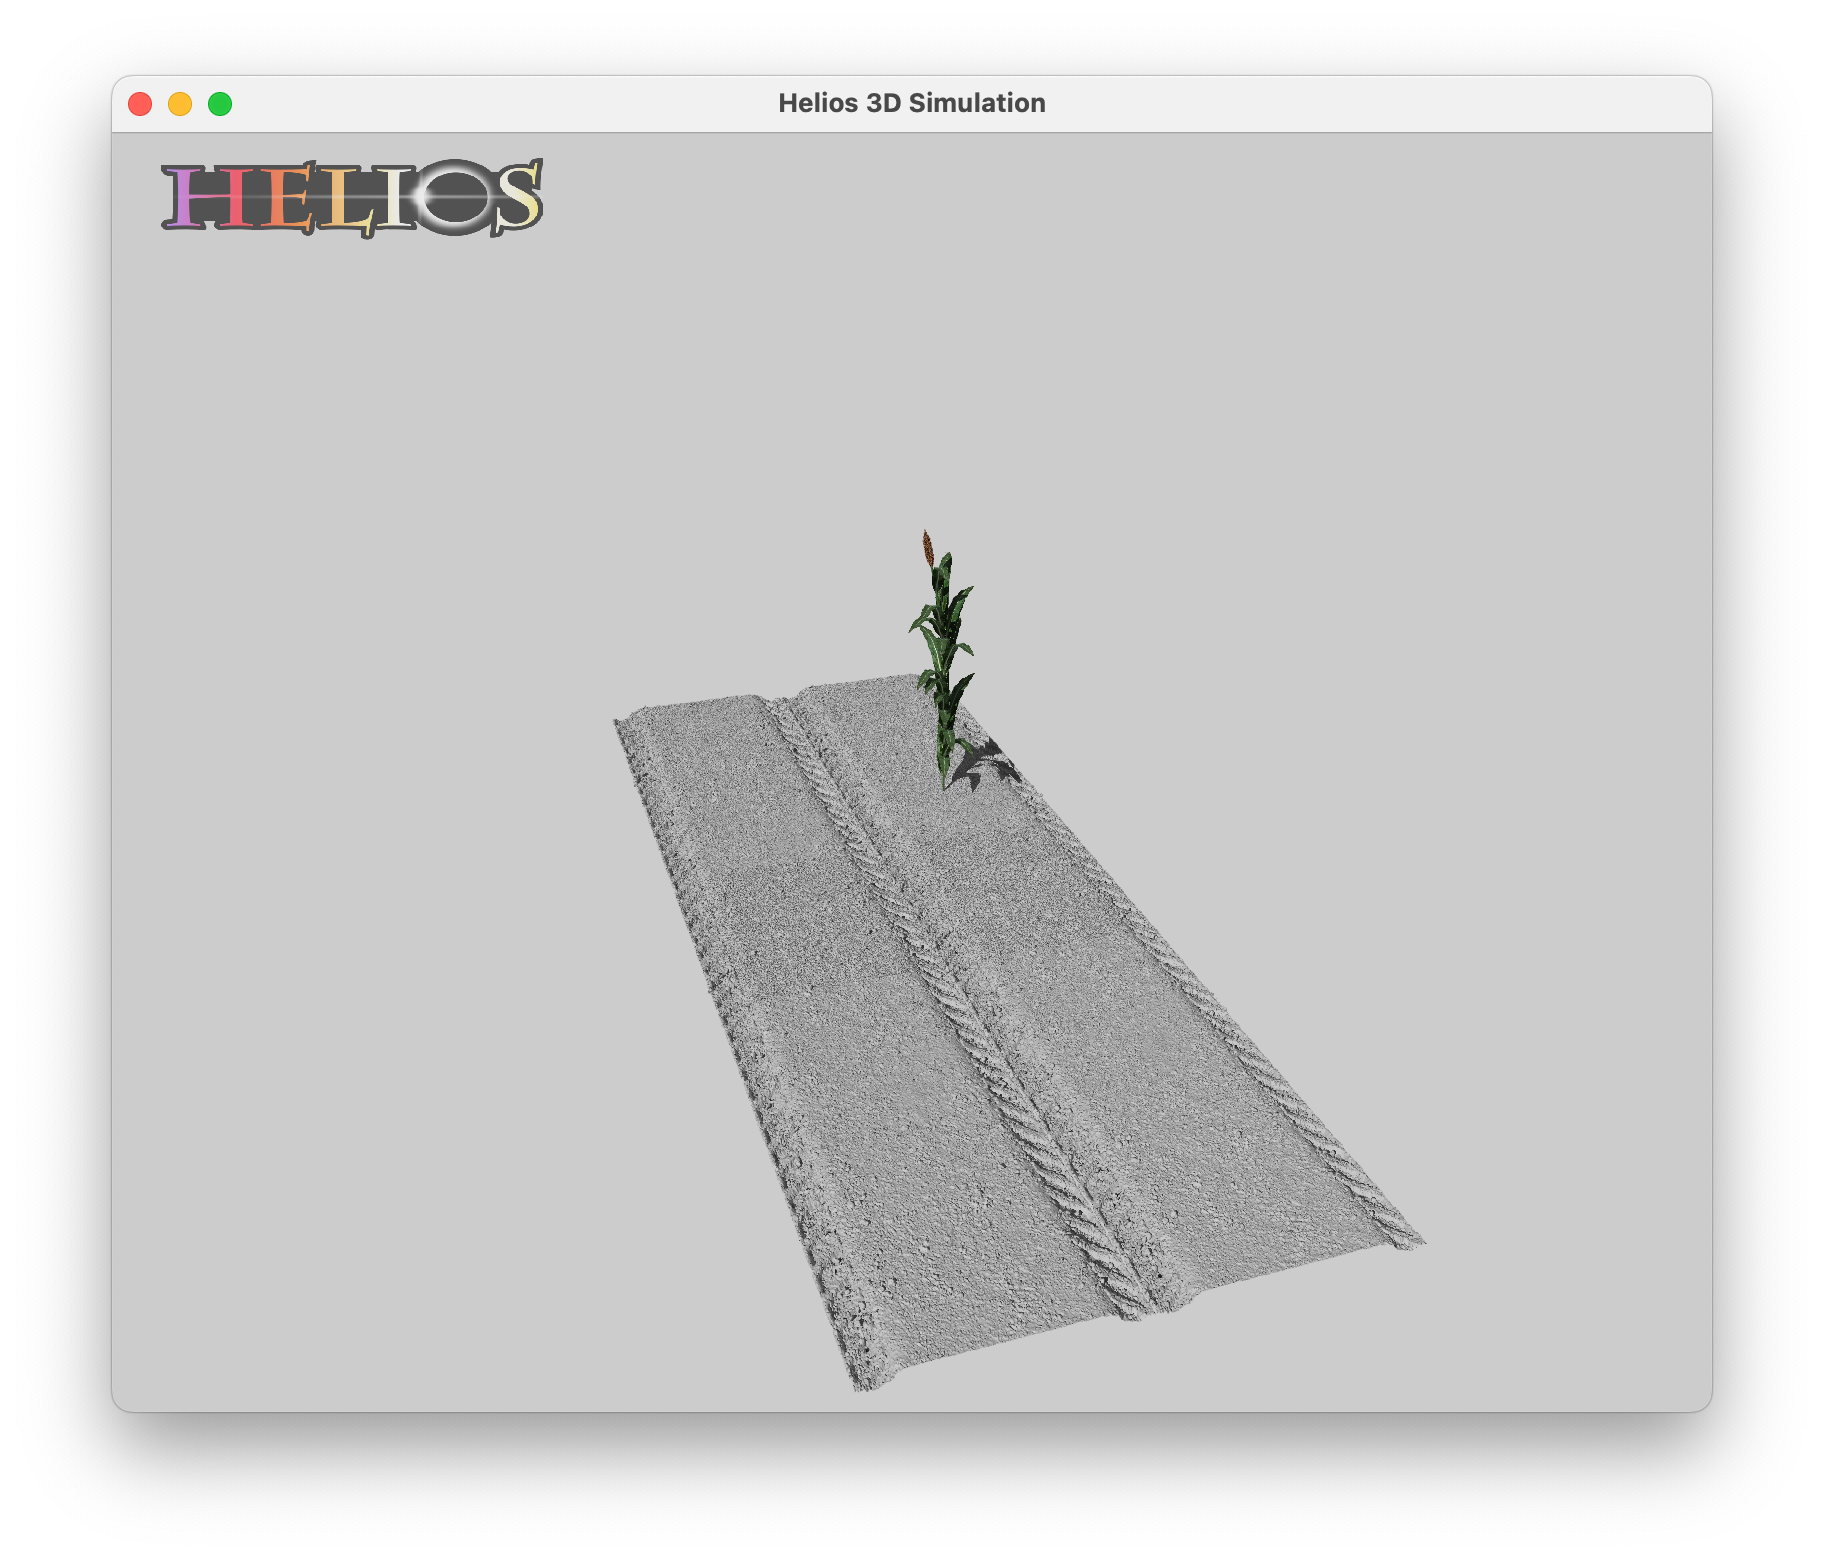
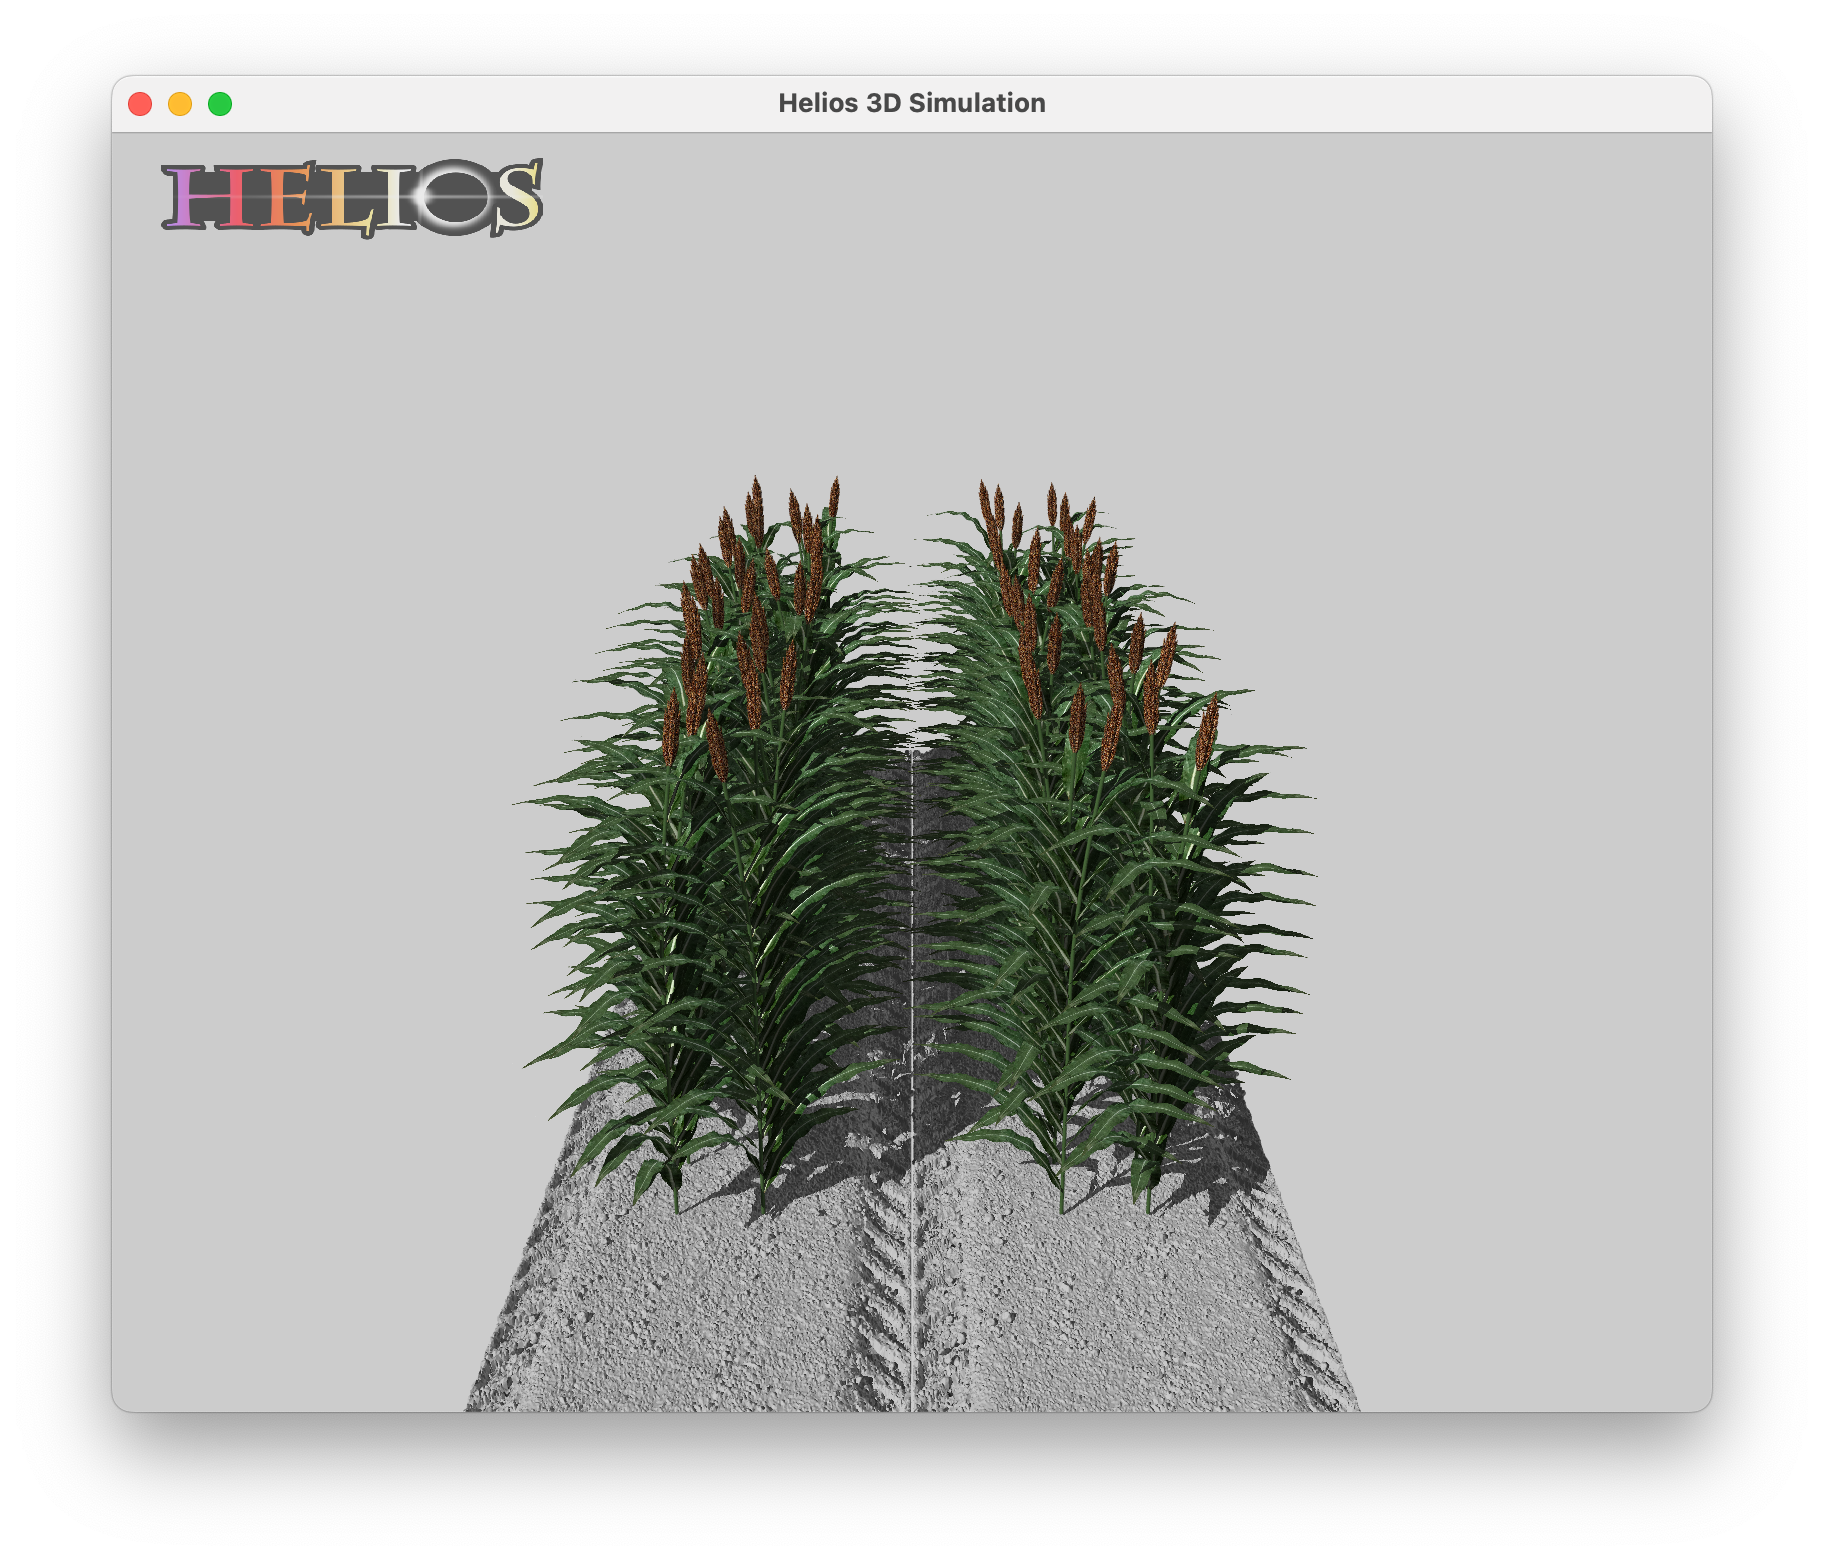
Planted more Sorghum

Changed region(s): [[0.25, 0.3077, 0.7812, 0.9231]]

diff --git a/DigitalSorghum/main.cpp b/DigitalSorghum/main.cpp
@@ -1,21 +1,22 @@
 #include "Visualizer.h"
 #include "CanopyGenerator.h"
 
+#include "main.h"
+
 using namespace helios;
 
-int make_field(Context &context){
 
-    const float bed_height = 0.2;
+int make_field(Context &context){
 
     int n_beds = 2; //6
     int n_rows = 2; // 20
 
-    std::vector<uint> UUIDs = context.loadOBJ("../../DigitalSorghum/obj/dirt_rocks.obj", make_vec3(0,0,0),bed_height,nullrotation,RGB::white);
+    std::vector<uint> UUIDs = context.loadOBJ("../../DigitalSorghum/obj/dirt_rocks.obj", make_vec3(0,0,0), BED_HEIGHT, nullrotation, RGB::white);
 
     for(int bed = 0;bed < n_beds;bed++){
         for(int row=0;row<n_rows;row++){
-            float x = bed*bed_height*10;
-            float y = row*bed_height*20;
+            float x = bed * BED_WIDTH;
+            float y = row * BED_LENGTH;
             float z = 0;
             std::vector<uint> UUIDs_copy = context.copyPrimitive(UUIDs);
             context.translatePrimitive(UUIDs_copy, make_vec3(x,y,z));
@@ -23,7 +24,34 @@ int make_field(Context &context){
     }
 }
 
+int plant_sorghum(Context &context){
+    // Canopy generator model
+    CanopyGenerator canopygenerator(&context);
 
+    //Declare the parameter set for VSP grapevine
+    SorghumCanopyParameters parameters;
+    parameters.plant_count = make_int2(2,8);
+
+
+    //Variable defining the location of the plant
+//    vec3 origin(0,0,0);
+    //Add the sorghum geometry to the Context
+//    canopygenerator.sorghum( parameters, origin );
+
+    int n_beds = 2; //6
+    int n_rows = 2; // 20
+    for(int bed = 0;bed < n_beds;bed++){
+        for(int row=0;row<n_rows;row++){
+            float x = bed * BED_WIDTH;
+            float y = row * BED_LENGTH;
+            float z = 0;
+            vec3 origin(x,y,z);
+            parameters.canopy_origin = origin;
+            //canopygenerator.sorghum( parameters, origin ); // Gererate a single Sorhgum plant
+            canopygenerator.buildCanopy( parameters);
+        }
+    }
+}
 
 int main(){
     Context context;
@@ -31,19 +59,8 @@ int main(){
     // OBJ 3D Model
     make_field(context);
 
-    // Canopy generator model
-    CanopyGenerator canopygenerator(&context);
-
-    //Declare the parameter set for VSP grapevine
-    SorghumCanopyParameters parameters;
-    parameters.plant_count = make_int2(1,1);
-
-    //Variable defining the location of the plant
-    vec3 origin(0,0,0);
-
-    //Add the sorghum geometry to the Context
-    canopygenerator.sorghum( parameters, origin );
-
+    // Plant sorghum
+    plant_sorghum(context);
 
     // Set Visualizer
     Visualizer visualizer(800);

diff --git a/DigitalSorghum/main.h b/DigitalSorghum/main.h
@@ -1,0 +1,13 @@
+//
+// Created by Heesup Yun on 7/27/23.
+//
+
+#ifndef HELIOS_MAIN_H
+#define HELIOS_MAIN_H
+
+// Field configuration
+#define BED_HEIGHT 0.2
+#define BED_WIDTH (BED_HEIGHT*10)
+#define BED_LENGTH (BED_HEIGHT*15)
+
+#endif //HELIOS_MAIN_H
